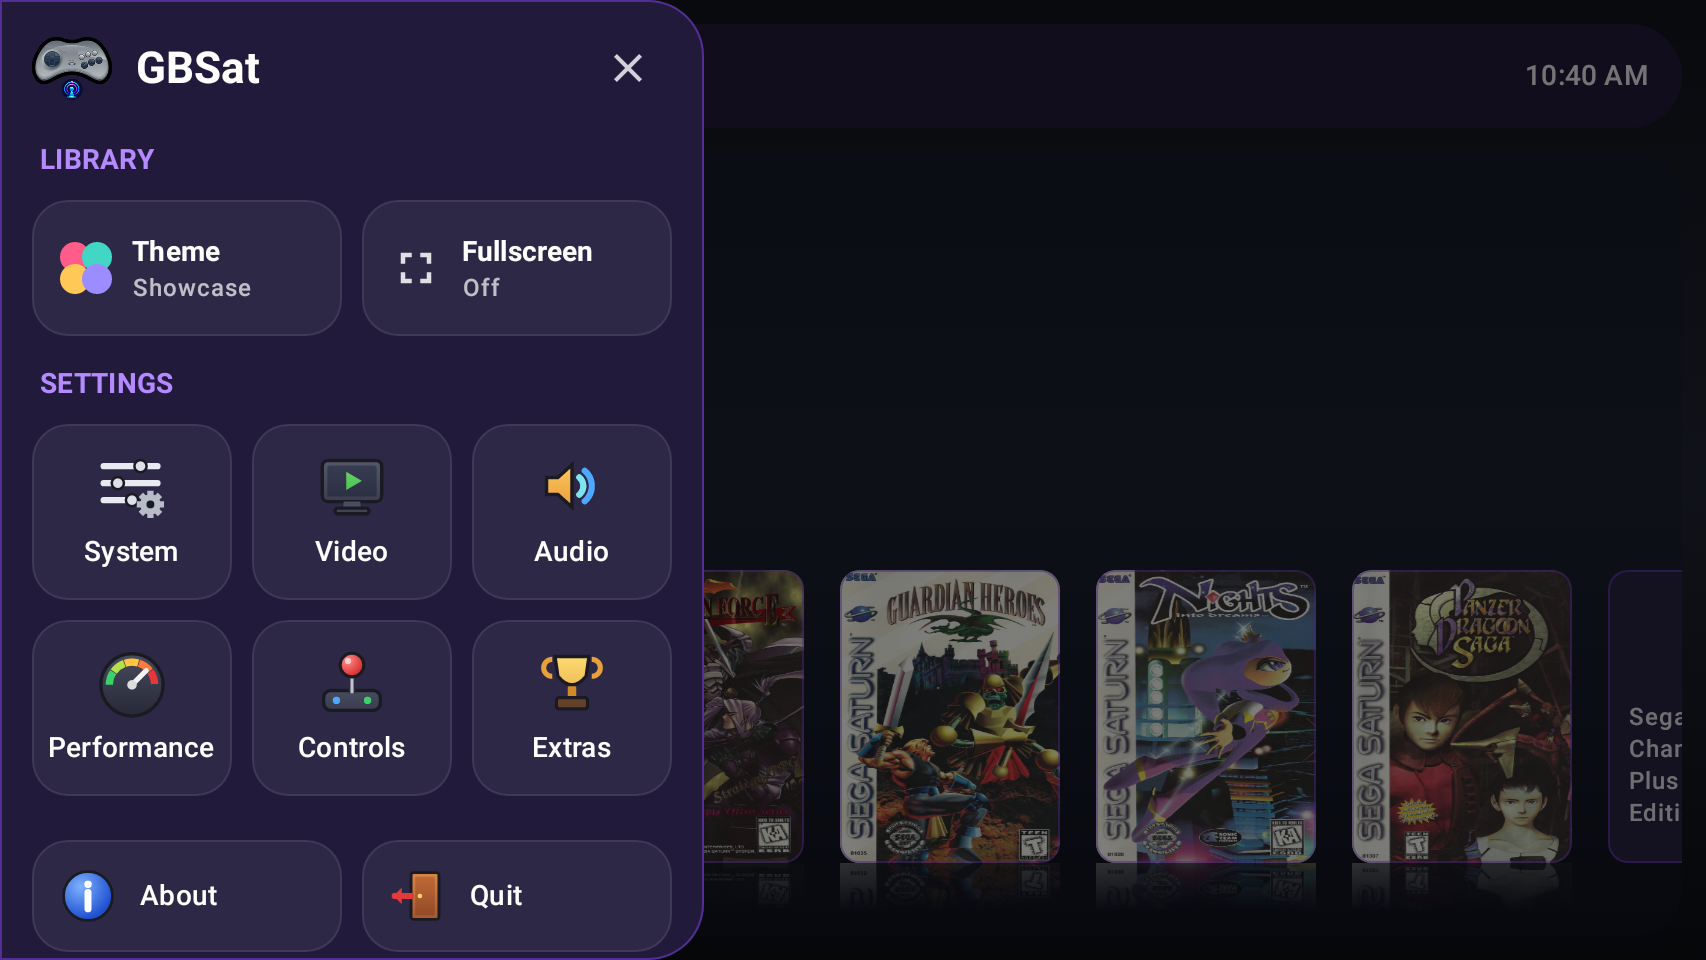
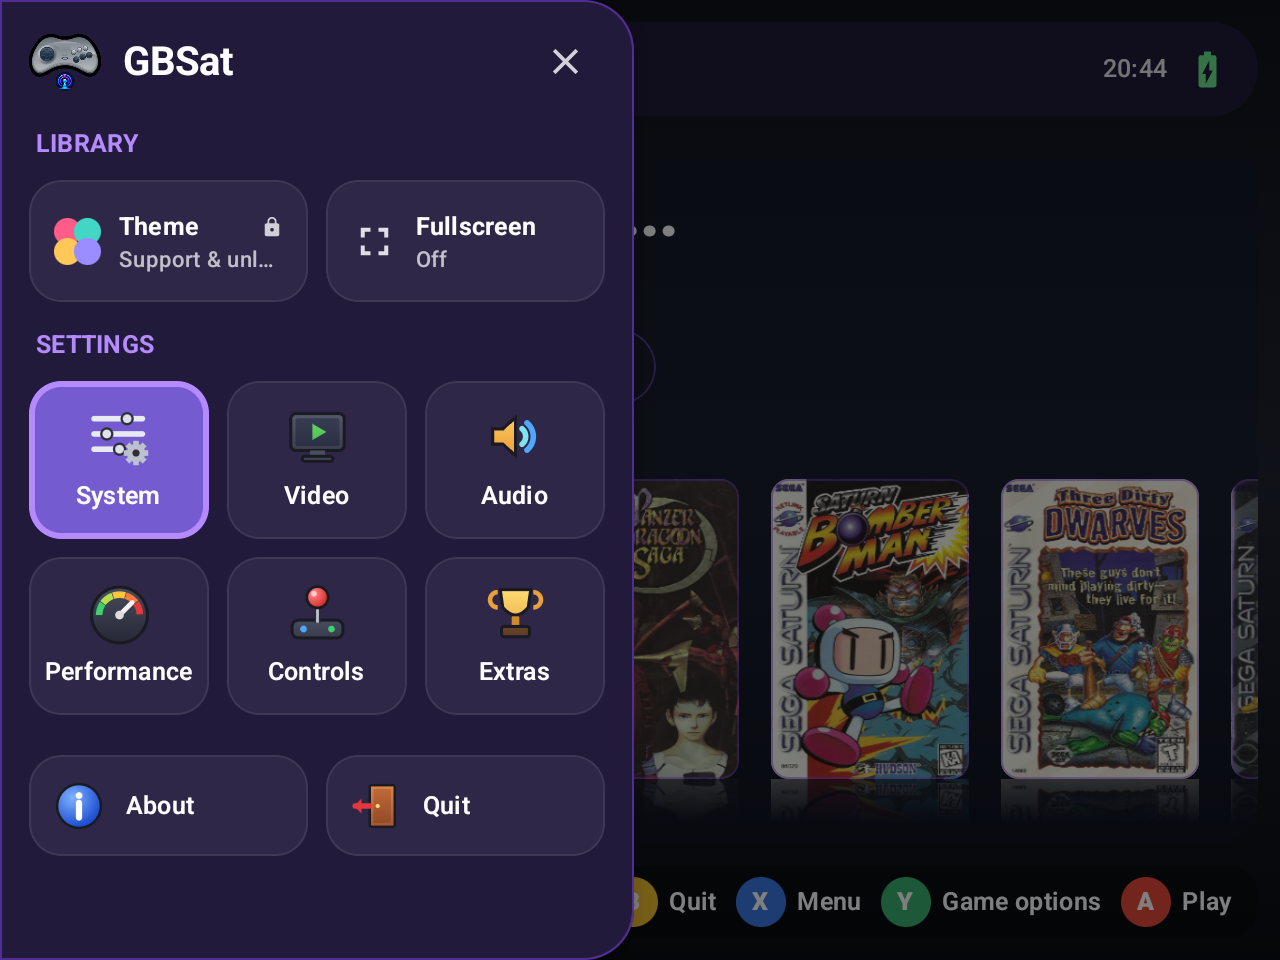
docs: refresh README screenshots

diff --git a/README.md b/README.md
@@ -12,13 +12,13 @@ Vulkan rendering · Save states · RetroAchievements · Controller and touch inp
 
 </div>
 
-GBSat is an Android Sega Saturn emulator built around the [Ymir](https://github.com/StrikerX3/Ymir) core and the shared [GBFrame](https://github.com/mindspotgb/GBFrame) app framework. The repository contains the Android app, the Ymir revision used by it, and the dependencies needed to build the Android version.
+GBSat is a Sega Saturn emulator for Android phones and handhelds, built with the shared [GBFrame](https://github.com/mindspotgb/GBFrame) app framework. This repository contains the Android app, its emulation core, and the dependencies needed to build it.
 
 ## Highlights
 
 | | |
 | --- | --- |
-| 🎮 **Saturn emulation** | Ymir core, with Vulkan rendering and an OpenGL ES compatibility renderer |
+| 🎮 **Saturn emulation** | GBSat runs Sega Saturn games with Vulkan rendering and an OpenGL ES compatibility renderer |
 | 🕹 **Built for handhelds** | Controller navigation and remapping, touch controls, and an in-game quick menu |
 | 💾 **Save states** | Automatic and manual states, screenshots, resume support, and data-folder backup workflows |
 | 🏆 **RetroAchievements and cheats** | Optional RetroAchievements support and per-game cheats |
@@ -30,14 +30,17 @@ GBSat is an Android Sega Saturn emulator built around the [Ymir](https://github.
 These screenshots show the app using real Saturn games and their actual cover art.
 
 <p align="center">
-  <img src="docs/screenshots/menu.png" width="32%" alt="GBSat main menu">
-  <img src="docs/screenshots/settings-video.png" width="32%" alt="GBSat video settings">
-  <img src="docs/screenshots/settings-performance.png" width="32%" alt="GBSat performance settings">
+  <img src="docs/screenshots/menu.png" width="48%" alt="GBSat main menu on Retroid Pocket Nova">
+  <img src="docs/screenshots/settings-video.png" width="48%" alt="GBSat video settings on Retroid Pocket Nova">
+</p>
+<p align="center">
+  <img src="docs/screenshots/settings-performance.png" width="48%" alt="GBSat performance settings on Retroid Pocket Nova">
+  <img src="docs/screenshots/gameplay.png" width="48%" alt="NiGHTS Into Dreams gameplay on Retroid Pocket Nova">
 </p>
 
 ## All features
 
-- **Emulation:** Ymir-based Sega Saturn emulation with a BIOS and common disc-image formats supplied by the user.
+- **Emulation:** Sega Saturn games with a BIOS and common disc-image formats supplied by the user.
 - **Video:** Vulkan renderer with enhanced internal resolution, OpenGL ES renderer for compatibility, 4:3/16:9/full-screen display modes, supported widescreen hacks, filters, and shaders.
 - **Audio and performance:** Audio controls, fast-forward, automatic frame skip, and device-aware per-game performance profiles.
 - **Input:** Physical controller support and button remapping, Saturn touch controls with configurable haptics, hotkeys, and a controller-friendly in-game quick menu.
@@ -76,7 +79,7 @@ For Windows local signing and build instructions, see [apps/android/README.md](a
 ## Project layout
 
 - `apps/android` — Android app, Kotlin/Compose UI, JNI bridge, and app assets.
-- `libs/gbsat-core` — Ymir Saturn emulation core used by this app.
+- `libs/gbsat-core` — Saturn emulation core used by GBSat.
 - `libs/gbframe` — shared Android UI and device framework, pinned as a Git submodule.
 - `vendor` — native dependencies pinned to the revisions used by the Android build.
 - `cmake`, `tools`, `.github/workflows` — native build support and Android CI/release workflows.
@@ -84,6 +87,10 @@ For Windows local signing and build instructions, see [apps/android/README.md](a
 ## Privacy
 
 GBSat has no ads or analytics. Optional network features and the data they use are described in the [privacy policy](PRIVACY.md). The app does not include BIOS files or games.
+
+## References
+
+GBSat includes the [Ymir](https://github.com/StrikerX3/Ymir) emulation core. See the repository's third-party notices for source revisions and license details.
 
 ## License and trademarks
 
